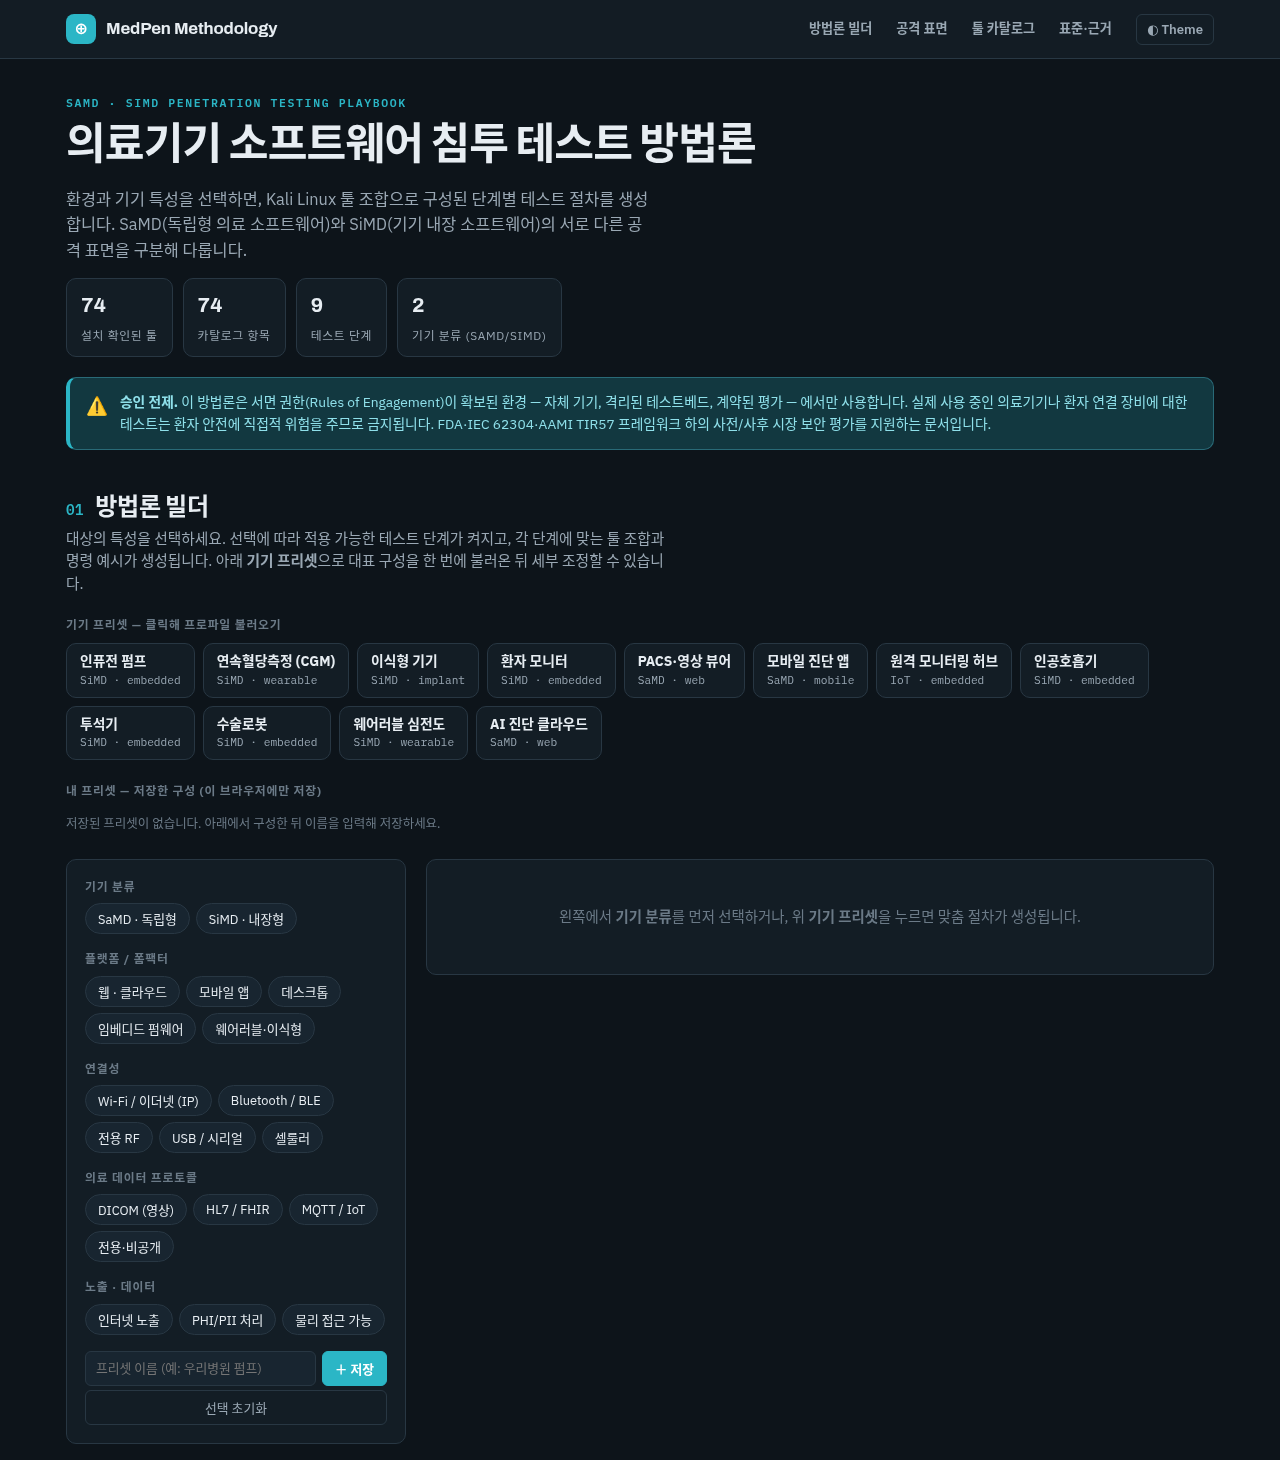
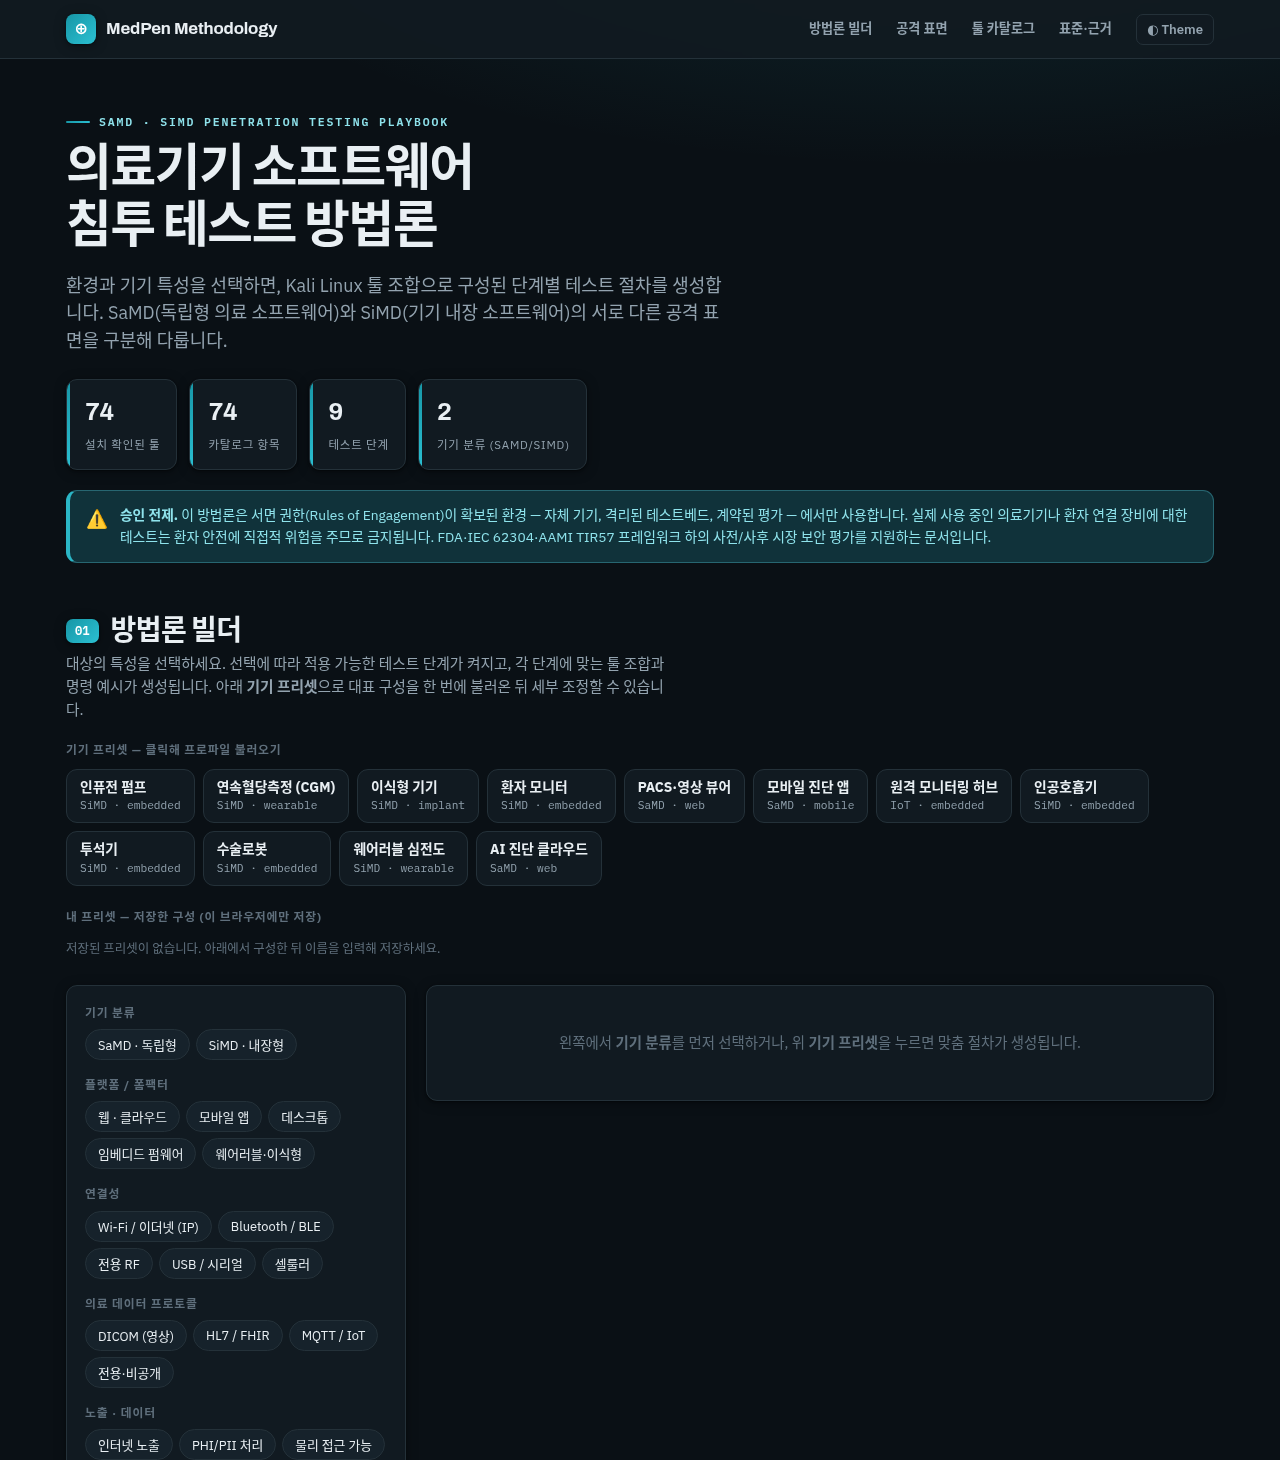
style: refine visual design across all pages
Apply a more intentional design pass inspired by DESIGN.md conventions:
deeper dark-first ink palette with cooler neutrals, a teal gradient accent,
explicit spacing/radius/shadow tokens, a subtle hero glow, stronger type
hierarchy, section-number chips, accent-barred stat tiles, and card/button
hover states. Fix Korean heading line-breaks with word-break:keep-all and
unify the palette across index, tool, and report pages. Refresh screenshots.

diff --git a/index.html b/index.html
@@ -17,35 +17,49 @@
 /* Layout: fixed left phase-rail + scrollable content; interactive builder panel up top.
    Clinical-technical identity — cool ink neutrals, medical teal accent, signal amber/red for severity. */
 :root{
-  --bg:#f3f5f7; --surface:#ffffff; --surface-2:#eef1f4; --line:#d8dde3;
-  --fg:#17202a; --muted:#5a6775; --faint:#8793a0;
-  --accent:#0c7d8c; --accent-weak:#d4ebee; --accent-ink:#065059;
+  /* palette — cool ink neutrals, medical teal accent, signal colors for severity */
+  --bg:#eef1f5; --surface:#ffffff; --surface-2:#f1f4f7; --line:#dde3e9;
+  --fg:#141b22; --muted:#566573; --faint:#8a97a4;
+  --accent:#0b7c8b; --accent-2:#149eb0; --accent-weak:#d9edf0; --accent-ink:#064e57;
   --ok:#2f8f4e; --warn:#b5730b; --crit:#c0392b; --info:#2d6fb3;
   --code-bg:#0f1b22; --code-fg:#cfe6ea;
-  --r:10px; --r-sm:6px;
+  --grad:linear-gradient(135deg,#0b7c8b,#17a3b5);
+  --glow:radial-gradient(1200px 440px at 74% -10%, color-mix(in srgb,var(--accent) 12%,transparent), transparent 68%);
+  --shadow:0 1px 2px rgba(18,38,48,.05),0 2px 10px rgba(18,38,48,.05);
+  --shadow-lg:0 8px 30px rgba(18,38,48,.12);
+  --s1:4px; --s2:8px; --s3:12px; --s4:16px; --s5:24px; --s6:32px; --s7:48px;
+  --r-sm:7px; --r:11px; --r-lg:16px; --r-full:999px;
   --f-head:"Archivo","Segoe UI",system-ui,sans-serif;
   --f-body:"IBM Plex Sans","Segoe UI",system-ui,sans-serif;
   --f-mono:"IBM Plex Mono",ui-monospace,"SFMono-Regular",Menlo,monospace;
 }
 @media (prefers-color-scheme:dark){:root:not([data-theme="light"]){
-  --bg:#0d141a; --surface:#131d25; --surface-2:#182530; --line:#283743;
-  --fg:#e7edf2; --muted:#9aa8b4; --faint:#6b7a87;
-  --accent:#2bb6c6; --accent-weak:#123840; --accent-ink:#8fe0ea;
+  --bg:#0a1015; --surface:#111a21; --surface-2:#16222b; --line:#243139;
+  --fg:#e9eff3; --muted:#93a3af; --faint:#5f6f7c;
+  --accent:#2bb6c6; --accent-2:#38c9da; --accent-weak:#10323a; --accent-ink:#8fe3ec;
   --ok:#4bbf6e; --warn:#e0a030; --crit:#e5604f; --info:#5a9fe0;
-  --code-bg:#0a1217; --code-fg:#cfe6ea;
+  --code-bg:#070d12; --code-fg:#cfe6ea;
+  --grad:linear-gradient(135deg,#1796a6,#2bc0d2);
+  --glow:radial-gradient(1200px 460px at 74% -10%, color-mix(in srgb,var(--accent) 16%,transparent), transparent 68%);
+  --shadow:0 1px 2px rgba(0,0,0,.4),0 2px 12px rgba(0,0,0,.35);
+  --shadow-lg:0 10px 36px rgba(0,0,0,.5);
   color-scheme:dark;
 }}
 :root[data-theme="dark"]{
-  --bg:#0d141a; --surface:#131d25; --surface-2:#182530; --line:#283743;
-  --fg:#e7edf2; --muted:#9aa8b4; --faint:#6b7a87;
-  --accent:#2bb6c6; --accent-weak:#123840; --accent-ink:#8fe0ea;
+  --bg:#0a1015; --surface:#111a21; --surface-2:#16222b; --line:#243139;
+  --fg:#e9eff3; --muted:#93a3af; --faint:#5f6f7c;
+  --accent:#2bb6c6; --accent-2:#38c9da; --accent-weak:#10323a; --accent-ink:#8fe3ec;
   --ok:#4bbf6e; --warn:#e0a030; --crit:#e5604f; --info:#5a9fe0;
-  --code-bg:#0a1217; --code-fg:#cfe6ea;
+  --code-bg:#070d12; --code-fg:#cfe6ea;
+  --grad:linear-gradient(135deg,#1796a6,#2bc0d2);
+  --glow:radial-gradient(1200px 460px at 74% -10%, color-mix(in srgb,var(--accent) 16%,transparent), transparent 68%);
+  --shadow:0 1px 2px rgba(0,0,0,.4),0 2px 12px rgba(0,0,0,.35);
+  --shadow-lg:0 10px 36px rgba(0,0,0,.5);
   color-scheme:dark;
 }
 *{box-sizing:border-box}
-body{background:var(--bg);color:var(--fg);font-family:var(--f-body);line-height:1.55;-webkit-font-smoothing:antialiased}
-h1,h2,h3,h4{font-family:var(--f-head);text-wrap:balance;line-height:1.15;margin:0}
+body{background:var(--glow) no-repeat,var(--bg);background-attachment:fixed;color:var(--fg);font-family:var(--f-body);line-height:1.55;-webkit-font-smoothing:antialiased}
+h1,h2,h3,h4{font-family:var(--f-head);text-wrap:balance;line-height:1.15;margin:0;word-break:keep-all}
 code,kbd,.mono{font-family:var(--f-mono)}
 a{color:var(--accent);text-decoration:none}
 a:hover{text-decoration:underline}
@@ -56,21 +70,24 @@ a:hover{text-decoration:underline}
 header.top{position:sticky;top:env(safe-area-inset-top,0px);z-index:40;background:color-mix(in srgb,var(--surface) 92%,transparent);backdrop-filter:blur(8px);border-bottom:1px solid var(--line)}
 .top .wrap{display:flex;align-items:center;gap:14px;min-height:58px;flex-wrap:wrap}
 .brand{display:flex;align-items:center;gap:10px;font-family:var(--f-head);font-weight:700;letter-spacing:-.01em;font-size:1.05rem}
-.brand .mk{display:inline-grid;place-items:center;width:30px;height:30px;border-radius:8px;background:var(--accent);color:#fff;font-size:1rem}
+.brand .mk{display:inline-grid;place-items:center;width:30px;height:30px;border-radius:8px;background:var(--grad);color:#fff;font-size:1rem;box-shadow:var(--shadow)}
 nav.top-nav{display:flex;gap:4px;margin-left:auto;flex-wrap:wrap}
 nav.top-nav a{color:var(--muted);padding:6px 10px;border-radius:var(--r-sm);font-size:.82rem;font-weight:600}
 nav.top-nav a:hover{background:var(--surface-2);text-decoration:none;color:var(--fg)}
-.theme-btn{border:1px solid var(--line);background:var(--surface);color:var(--muted);border-radius:var(--r-sm);padding:6px 10px;cursor:pointer;font-size:.82rem;font-weight:600;font-family:var(--f-body)}
+.theme-btn{border:1px solid var(--line);background:var(--surface);color:var(--muted);border-radius:var(--r-sm);padding:6px 10px;cursor:pointer;font-size:.82rem;font-weight:600;font-family:var(--f-body);transition:border-color .12s,color .12s}
+.theme-btn:hover{border-color:var(--accent);color:var(--fg)}
 
 /* ---- hero ---- */
-.hero{padding-block:30px 10px}
-.eyebrow{font-size:.72rem;letter-spacing:.14em;text-transform:uppercase;color:var(--accent);font-weight:700;font-family:var(--f-mono)}
-.hero h1{font-size:clamp(1.7rem,4.5vw,2.7rem);margin:.4rem 0 .5rem;font-weight:800;letter-spacing:-.02em}
-.hero p.lede{color:var(--muted);max-width:60ch;font-size:1.02rem}
-.stat-row{display:flex;gap:10px;flex-wrap:wrap;margin-top:16px}
-.stat{background:var(--surface);border:1px solid var(--line);border-radius:var(--r);padding:10px 14px;min-width:0}
-.stat b{font-family:var(--f-head);font-size:1.3rem;display:block;font-variant-numeric:tabular-nums}
-.stat span{font-size:.74rem;color:var(--muted);text-transform:uppercase;letter-spacing:.06em}
+.hero{padding-block:46px 14px}
+.eyebrow{display:inline-flex;align-items:center;gap:9px;font-size:.72rem;letter-spacing:.16em;text-transform:uppercase;color:var(--accent-ink);font-weight:700;font-family:var(--f-mono)}
+.eyebrow::before{content:"";width:24px;height:2px;border-radius:2px;background:var(--grad)}
+.hero h1{font-size:clamp(1.95rem,5vw,3.1rem);margin:.55rem 0 .65rem;font-weight:800;letter-spacing:-.025em;max-width:22ch}
+.hero p.lede{color:var(--muted);max-width:62ch;font-size:clamp(1rem,1.5vw,1.12rem)}
+.stat-row{display:flex;gap:12px;flex-wrap:wrap;margin-top:24px}
+.stat{background:var(--surface);border:1px solid var(--line);border-radius:var(--r);padding:13px 16px 13px 18px;min-width:0;box-shadow:var(--shadow);position:relative;overflow:hidden}
+.stat::before{content:"";position:absolute;left:0;top:0;bottom:0;width:3px;background:var(--grad)}
+.stat b{font-family:var(--f-head);font-size:1.55rem;display:block;font-variant-numeric:tabular-nums;letter-spacing:-.02em}
+.stat span{font-size:.72rem;color:var(--muted);text-transform:uppercase;letter-spacing:.07em}
 
 /* ---- authorization banner ---- */
 .authbox{display:flex;gap:12px;align-items:flex-start;background:var(--accent-weak);border:1px solid color-mix(in srgb,var(--accent) 40%,var(--line));border-left:4px solid var(--accent);border-radius:var(--r);padding:14px 16px;margin-top:20px}
@@ -78,16 +95,16 @@ nav.top-nav a:hover{background:var(--surface-2);text-decoration:none;color:var(-
 .authbox p{margin:0;font-size:.86rem;color:var(--accent-ink)}
 .authbox b{color:var(--accent-ink)}
 
-section.band{padding-block:34px;scroll-margin-top:72px}
-.sec-head{display:flex;align-items:baseline;gap:12px;flex-wrap:wrap;margin-bottom:6px}
-.sec-head h2{font-size:1.5rem;font-weight:800;letter-spacing:-.01em}
-.sec-head .n{font-family:var(--f-mono);color:var(--accent);font-size:.9rem;font-weight:700}
+section.band{padding-block:38px;scroll-margin-top:72px}
+.sec-head{display:flex;align-items:center;gap:12px;flex-wrap:wrap;margin-bottom:6px}
+.sec-head h2{font-size:clamp(1.4rem,2.6vw,1.75rem);font-weight:800;letter-spacing:-.02em}
+.sec-head .n{font-family:var(--f-mono);color:#fff;background:var(--grad);font-size:.76rem;font-weight:700;padding:3px 9px;border-radius:var(--r-sm);box-shadow:var(--shadow)}
 .sec-sub{color:var(--muted);max-width:68ch;margin:0 0 20px;font-size:.92rem}
 
 /* ---- builder ---- */
 .builder{display:grid;grid-template-columns:minmax(0,340px) minmax(0,1fr);gap:20px;align-items:start}
 @media(max-width:820px){.builder{grid-template-columns:1fr}}
-.panel{background:var(--surface);border:1px solid var(--line);border-radius:var(--r);padding:18px}
+.panel{background:var(--surface);border:1px solid var(--line);border-radius:var(--r);padding:18px;box-shadow:var(--shadow)}
 .panel.sticky{position:sticky;top:76px}
 @media(max-width:820px){.panel.sticky{position:static}}
 .fieldset{margin-bottom:16px}
@@ -159,7 +176,8 @@ section.band{padding-block:34px;scroll-margin-top:72px}
 .filterbtns{display:flex;gap:6px;flex-wrap:wrap}
 .catgrid{display:grid;grid-template-columns:repeat(auto-fill,minmax(300px,1fr));gap:14px}
 @media(max-width:520px){.catgrid{grid-template-columns:1fr}}
-.card{background:var(--surface);border:1px solid var(--line);border-radius:var(--r);padding:15px;display:flex;flex-direction:column;gap:8px;min-width:0}
+.card{background:var(--surface);border:1px solid var(--line);border-radius:var(--r);padding:16px;display:flex;flex-direction:column;gap:8px;min-width:0;box-shadow:var(--shadow);transition:transform .15s ease,box-shadow .15s ease,border-color .15s ease}
+.card:hover{transform:translateY(-2px);box-shadow:var(--shadow-lg);border-color:color-mix(in srgb,var(--accent) 35%,var(--line))}
 .card-h{display:flex;align-items:center;gap:8px;flex-wrap:wrap}
 .card-h h4{font-family:var(--f-mono);font-size:.98rem;font-weight:700}
 .card-h h4 a{color:var(--fg)}

diff --git a/report.html b/report.html
@@ -7,9 +7,9 @@
 <style>
 /* Clinical-technical identity to match MedPen; document editor on paper. */
 :root{
-  --bg:#eef1f4; --surface:#ffffff; --surface-2:#eef1f4; --line:#d8dde3;
-  --fg:#17202a; --muted:#5a6775; --faint:#8793a0;
-  --accent:#0c7d8c; --accent-weak:#d4ebee; --accent-ink:#065059;
+  --bg:#f1f4f7; --surface:#ffffff; --surface-2:#f1f4f7; --line:#dde3e9;
+  --fg:#141b22; --muted:#566573; --faint:#8a97a4;
+  --accent:#0b7c8b; --accent-weak:#d9edf0; --accent-ink:#064e57;
   --ok:#2f8f4e; --crit:#c0392b;
   --paper:#ffffff; --paper-fg:#1a1a1a;
   --f-head:"Archivo","Segoe UI",system-ui,sans-serif;
@@ -17,16 +17,16 @@
   --f-mono:"IBM Plex Mono",Consolas,ui-monospace,monospace;
 }
 @media (prefers-color-scheme:dark){:root:not([data-theme="light"]){
-  --bg:#0d141a; --surface:#131d25; --surface-2:#182530; --line:#283743;
-  --fg:#e7edf2; --muted:#9aa8b4; --faint:#6b7a87;
-  --accent:#2bb6c6; --accent-weak:#123840; --accent-ink:#8fe0ea;
+  --bg:#0a1015; --surface:#111a21; --surface-2:#16222b; --line:#243139;
+  --fg:#e9eff3; --muted:#93a3af; --faint:#5f6f7c;
+  --accent:#2bb6c6; --accent-weak:#10323a; --accent-ink:#8fe3ec;
   --ok:#4bbf6e; --crit:#e5604f;
   --paper:#f7f8f9; --paper-fg:#1a1a1a; color-scheme:dark;
 }}
 :root[data-theme="dark"]{
-  --bg:#0d141a; --surface:#131d25; --surface-2:#182530; --line:#283743;
-  --fg:#e7edf2; --muted:#9aa8b4; --faint:#6b7a87;
-  --accent:#2bb6c6; --accent-weak:#123840; --accent-ink:#8fe0ea;
+  --bg:#0a1015; --surface:#111a21; --surface-2:#16222b; --line:#243139;
+  --fg:#e9eff3; --muted:#93a3af; --faint:#5f6f7c;
+  --accent:#2bb6c6; --accent-weak:#10323a; --accent-ink:#8fe3ec;
   --ok:#4bbf6e; --crit:#e5604f;
   --paper:#f7f8f9; --paper-fg:#1a1a1a; color-scheme:dark;
 }
@@ -63,8 +63,8 @@ body{background:var(--bg);color:var(--fg);font-family:var(--f-body);line-height:
   box-shadow:0 1px 3px rgba(0,0,0,.08);padding:clamp(22px,5vw,56px);min-height:60vh;max-width:820px;margin:0 auto}
 .paper:focus{outline:2px solid var(--accent);outline-offset:3px}
 /* document typography (editor + print share these shapes) */
-.paper h1{font-family:var(--f-head);font-size:1.6rem;margin:0 0 .5rem;color:#0a3d44;border-bottom:2px solid #0c7d8c;padding-bottom:8px}
-.paper h2{font-family:var(--f-head);font-size:1.2rem;margin:1.4rem 0 .5rem;color:#0c7d8c;border-bottom:1px solid #cdd7db;padding-bottom:4px}
+.paper h1{font-family:var(--f-head);font-size:1.6rem;margin:0 0 .5rem;color:#0a3d44;border-bottom:2px solid #0b7c8b;padding-bottom:8px}
+.paper h2{font-family:var(--f-head);font-size:1.2rem;margin:1.4rem 0 .5rem;color:#0b7c8b;border-bottom:1px solid #cdd7db;padding-bottom:4px}
 .paper h3{font-family:var(--f-head);font-size:1.02rem;margin:1rem 0 .3rem;color:#17323a}
 .paper p{margin:0 0 .5rem}
 .paper p.meta{color:#555;font-size:.9rem;margin:0 0 .25rem}
@@ -73,7 +73,7 @@ body{background:var(--bg);color:var(--fg);font-family:var(--f-body);line-height:
 .paper ul{margin:0 0 .7rem;padding-left:1.3rem}
 .paper li{margin:0 0 .4rem}
 .paper code{font-family:var(--f-mono);background:#f1f3f4;color:#0a3d44;padding:1px 5px;border-radius:4px;font-size:.84em}
-.paper a{color:#0c7d8c}
+.paper a{color:#0b7c8b}
 
 .empty{max-width:560px;margin:8vh auto;text-align:center;color:var(--muted);background:var(--surface);border:1px solid var(--line);border-radius:10px;padding:30px}
 .empty h2{font-family:var(--f-head);color:var(--fg);margin:0 0 8px}
@@ -165,8 +165,8 @@ tb.addEventListener('click',()=>{
 const PRINT_CSS=`@page{size:A4;margin:18mm}
 *{box-sizing:border-box}
 body{font-family:'Malgun Gothic','Apple SD Gothic Neo','Noto Sans KR','Nanum Gothic',system-ui,sans-serif;color:#1a1a1a;font-size:11pt;line-height:1.5;margin:0}
-h1{font-size:19pt;margin:0 0 6pt;color:#0a3d44;border-bottom:2pt solid #0c7d8c;padding-bottom:6pt}
-h2{font-size:13pt;margin:16pt 0 6pt;color:#0c7d8c;border-bottom:0.5pt solid #cdd7db;padding-bottom:3pt}
+h1{font-size:19pt;margin:0 0 6pt;color:#0a3d44;border-bottom:2pt solid #0b7c8b;padding-bottom:6pt}
+h2{font-size:13pt;margin:16pt 0 6pt;color:#0b7c8b;border-bottom:0.5pt solid #cdd7db;padding-bottom:3pt}
 h3{font-size:11.5pt;margin:11pt 0 3pt;color:#17323a;page-break-after:avoid}
 p{margin:0 0 6pt}
 p.meta{color:#555;font-size:10pt;margin:0 0 2pt}

diff --git a/tool.html b/tool.html
@@ -6,9 +6,9 @@
 <title>툴 상세 — MedPen</title>
 <style>
 :root{
-  --bg:#f3f5f7; --surface:#ffffff; --surface-2:#eef1f4; --line:#d8dde3;
-  --fg:#17202a; --muted:#5a6775; --faint:#8793a0;
-  --accent:#0c7d8c; --accent-weak:#d4ebee; --accent-ink:#065059;
+  --bg:#eef1f5; --surface:#ffffff; --surface-2:#f1f4f7; --line:#dde3e9;
+  --fg:#141b22; --muted:#566573; --faint:#8a97a4;
+  --accent:#0b7c8b; --accent-weak:#d9edf0; --accent-ink:#064e57;
   --ok:#2f8f4e; --warn:#b5730b; --info:#2d6fb3;
   --code-bg:#0f1b22; --code-fg:#cfe6ea; --r:10px; --r-sm:6px;
   --f-head:"Archivo","Segoe UI",system-ui,sans-serif;
@@ -16,23 +16,23 @@
   --f-mono:"IBM Plex Mono",Consolas,ui-monospace,monospace;
 }
 @media (prefers-color-scheme:dark){:root:not([data-theme="light"]){
-  --bg:#0d141a; --surface:#131d25; --surface-2:#182530; --line:#283743;
-  --fg:#e7edf2; --muted:#9aa8b4; --faint:#6b7a87;
-  --accent:#2bb6c6; --accent-weak:#123840; --accent-ink:#8fe0ea;
+  --bg:#0a1015; --surface:#111a21; --surface-2:#16222b; --line:#243139;
+  --fg:#e9eff3; --muted:#93a3af; --faint:#5f6f7c;
+  --accent:#2bb6c6; --accent-weak:#10323a; --accent-ink:#8fe3ec;
   --ok:#4bbf6e; --warn:#e0a030; --info:#5a9fe0;
-  --code-bg:#0a1217; --code-fg:#cfe6ea; color-scheme:dark;
+  --code-bg:#070d12; --code-fg:#cfe6ea; color-scheme:dark;
 }}
 :root[data-theme="dark"]{
-  --bg:#0d141a; --surface:#131d25; --surface-2:#182530; --line:#283743;
-  --fg:#e7edf2; --muted:#9aa8b4; --faint:#6b7a87;
-  --accent:#2bb6c6; --accent-weak:#123840; --accent-ink:#8fe0ea;
+  --bg:#0a1015; --surface:#111a21; --surface-2:#16222b; --line:#243139;
+  --fg:#e9eff3; --muted:#93a3af; --faint:#5f6f7c;
+  --accent:#2bb6c6; --accent-weak:#10323a; --accent-ink:#8fe3ec;
   --ok:#4bbf6e; --warn:#e0a030; --info:#5a9fe0;
-  --code-bg:#0a1217; --code-fg:#cfe6ea; color-scheme:dark;
+  --code-bg:#070d12; --code-fg:#cfe6ea; color-scheme:dark;
 }
 *{box-sizing:border-box}
 html,body{margin:0}
 body{background:var(--bg);color:var(--fg);font-family:var(--f-body);line-height:1.6;-webkit-font-smoothing:antialiased}
-h1,h2,h3{font-family:var(--f-head);line-height:1.2;margin:0}
+h1,h2,h3{font-family:var(--f-head);line-height:1.2;margin:0;word-break:keep-all}
 a{color:var(--accent);text-decoration:none}
 a:hover{text-decoration:underline}
 :focus-visible{outline:2px solid var(--accent);outline-offset:2px}
